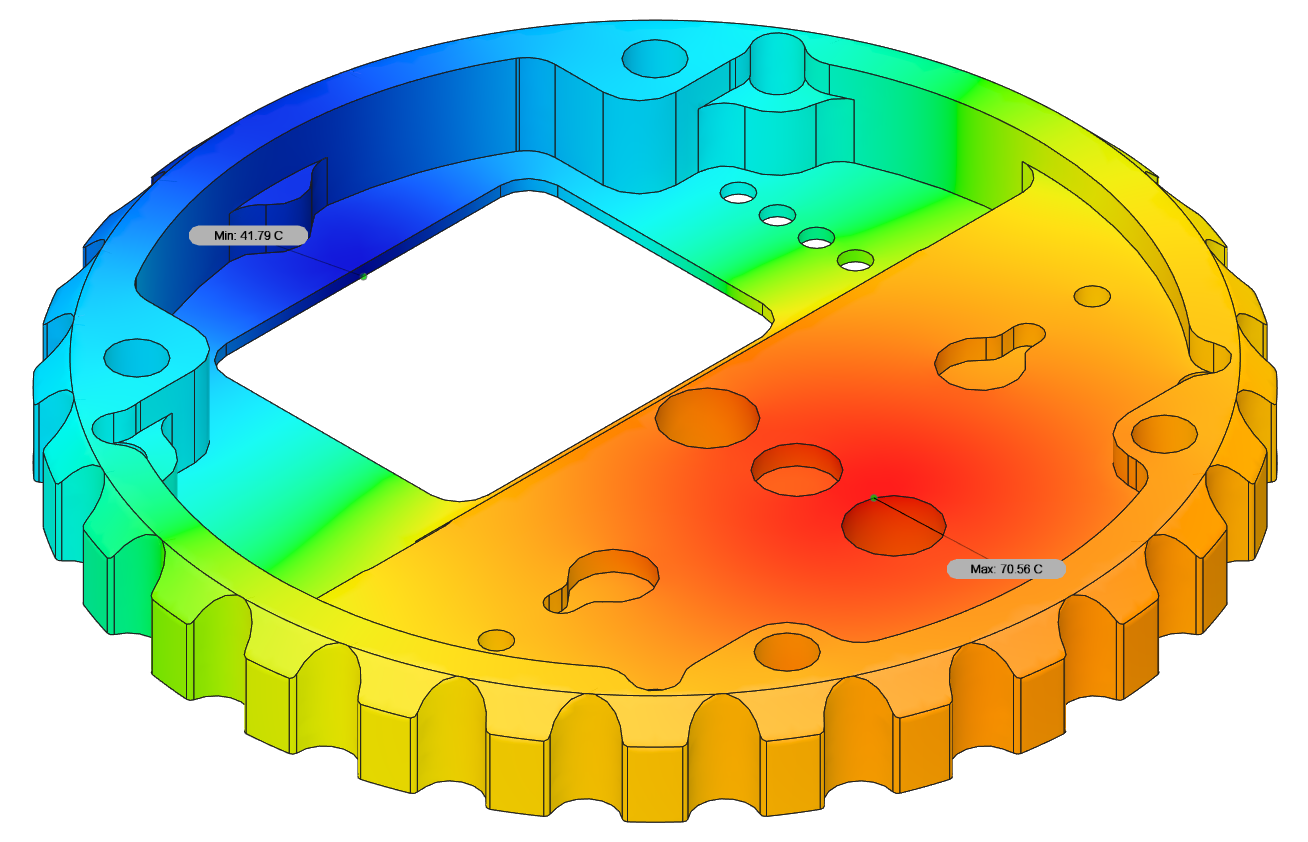
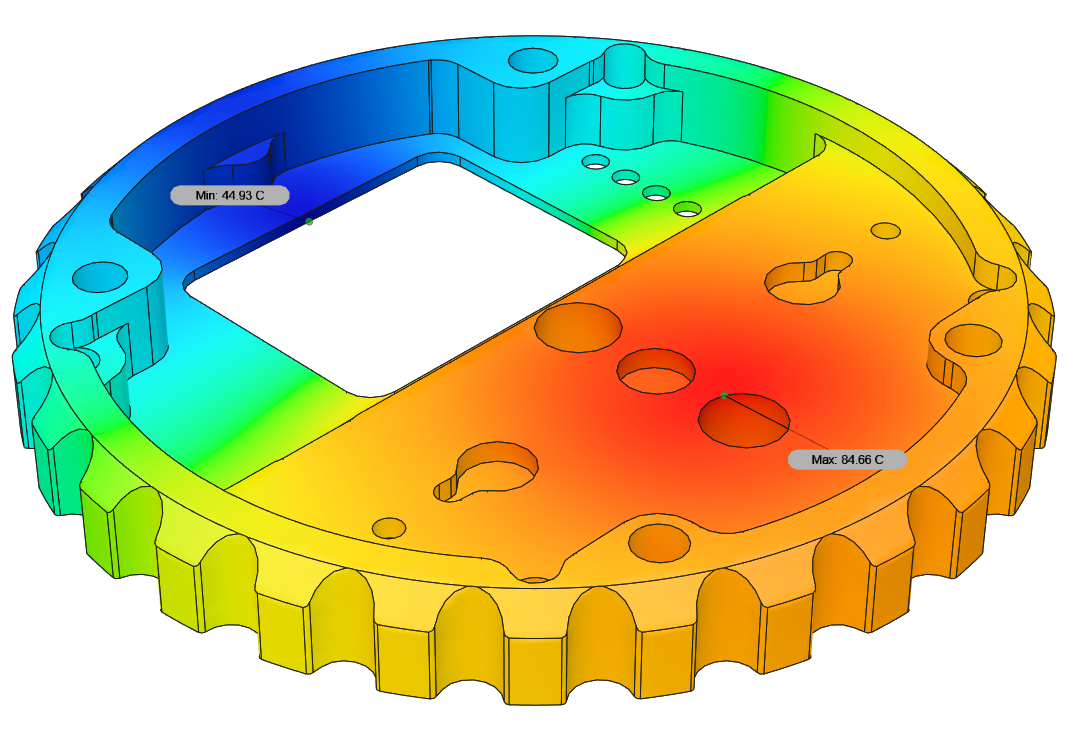
thermal performance section update

diff --git a/README.md b/README.md
@@ -47,9 +47,11 @@ Please refer to the manufacturing manual for further information.
 
 Thermal simulation is performed under following conditions:
 
-* The heat source is applied to the heatsink area where the PCB is placed. Its power is 54 W. It is a typical value of power losses in the Komar power stage when operating at a power level of 2000 W and powered from a discharged 12S battery (~40 V). This should represent the worst-case scenario.
+* The heat source is applied to the heatsink area where the PCB is placed. Its power is 78.5 W. It is a typical value of power losses in the Komar power stage when operating at a power level of 2500 W and powered from a discharged 12S battery (~40 V). This should represent the worst-case scenario.
 
-* Convection value of 300 is defined empirically after conducting several experiments with actual hardware. It may be considered a moderate convection estimation as during the laboratory testing the device mounting point was suboptimal.
+* Ambient temperature is 20 °C
+
+* Convection value of 350 is defined empirically after conducting several experiments with actual hardware. It may be considered a moderate convection estimation as during the laboratory testing the device mounting point was suboptimal.
 
   <p align="center">
   <img src="pics/thermal_performance.png" alt="Zubax Komar thermal performance" width="800"/>
